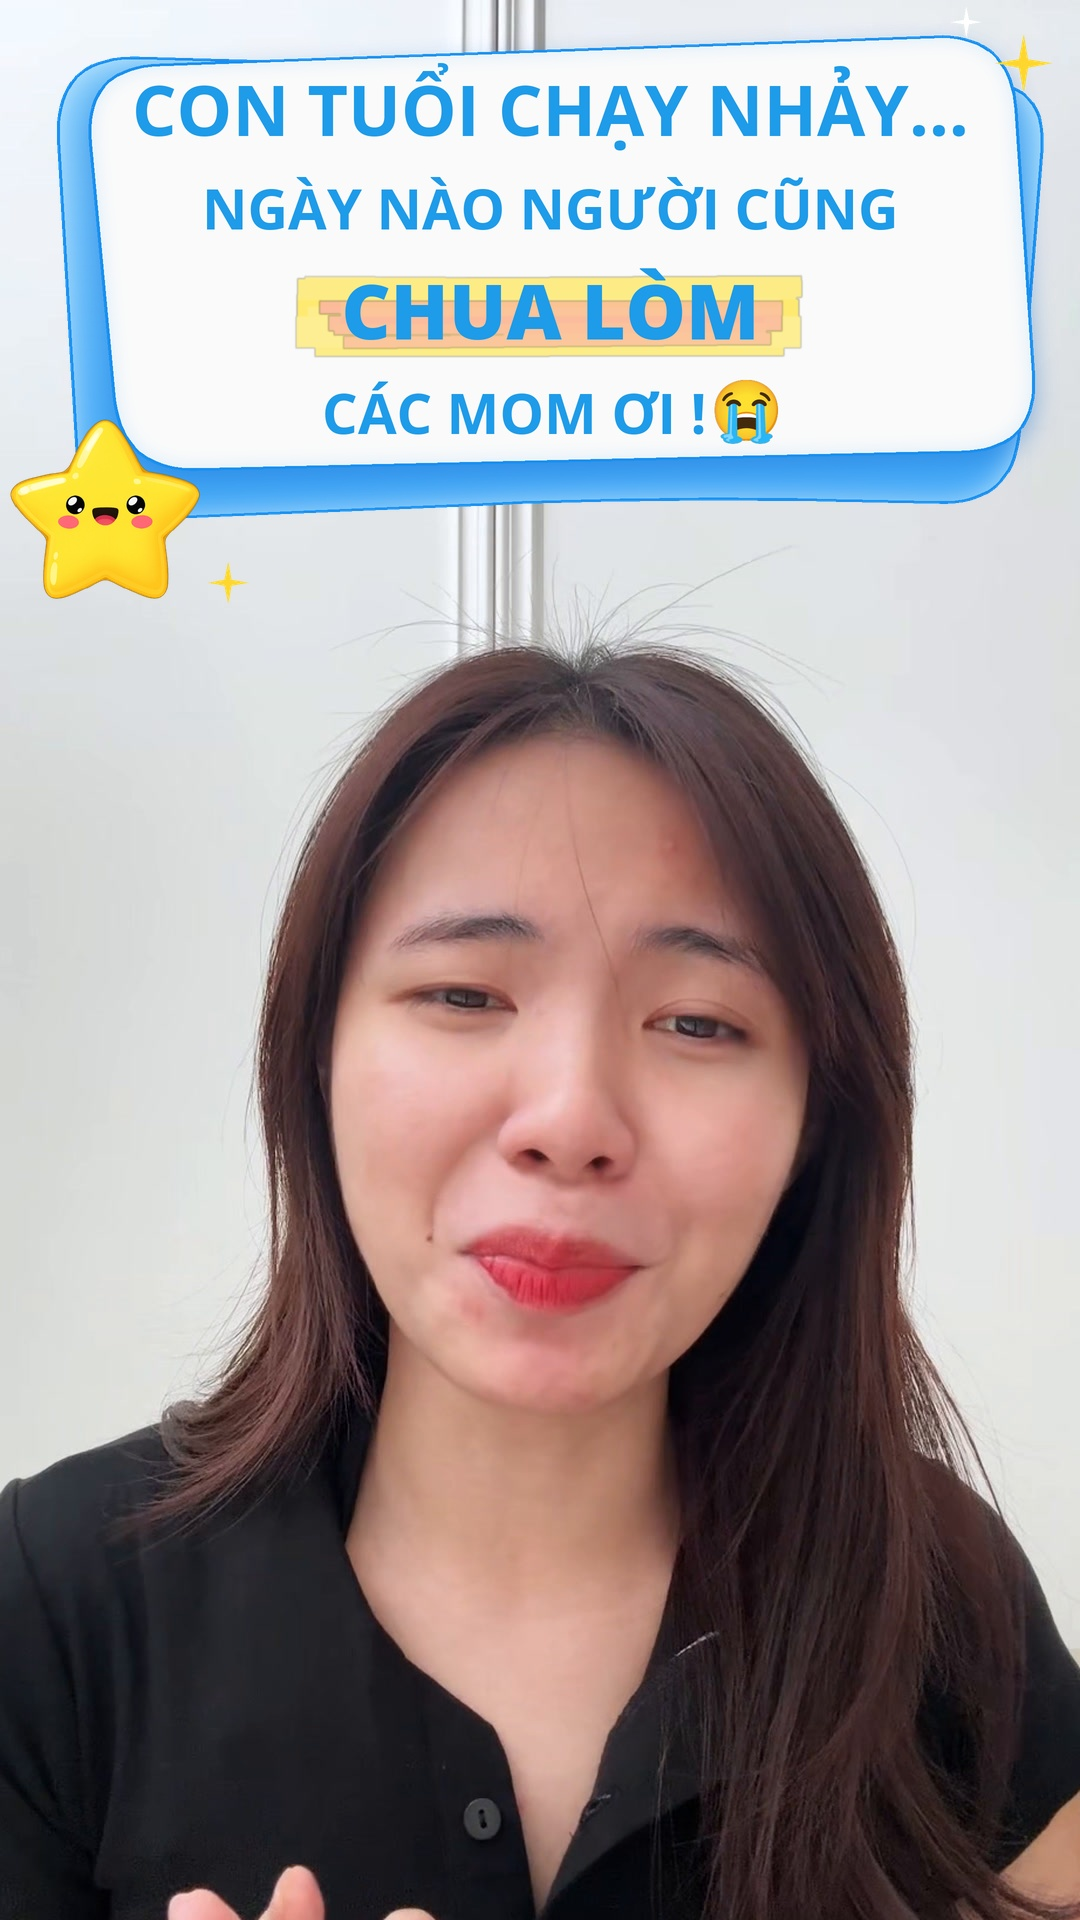
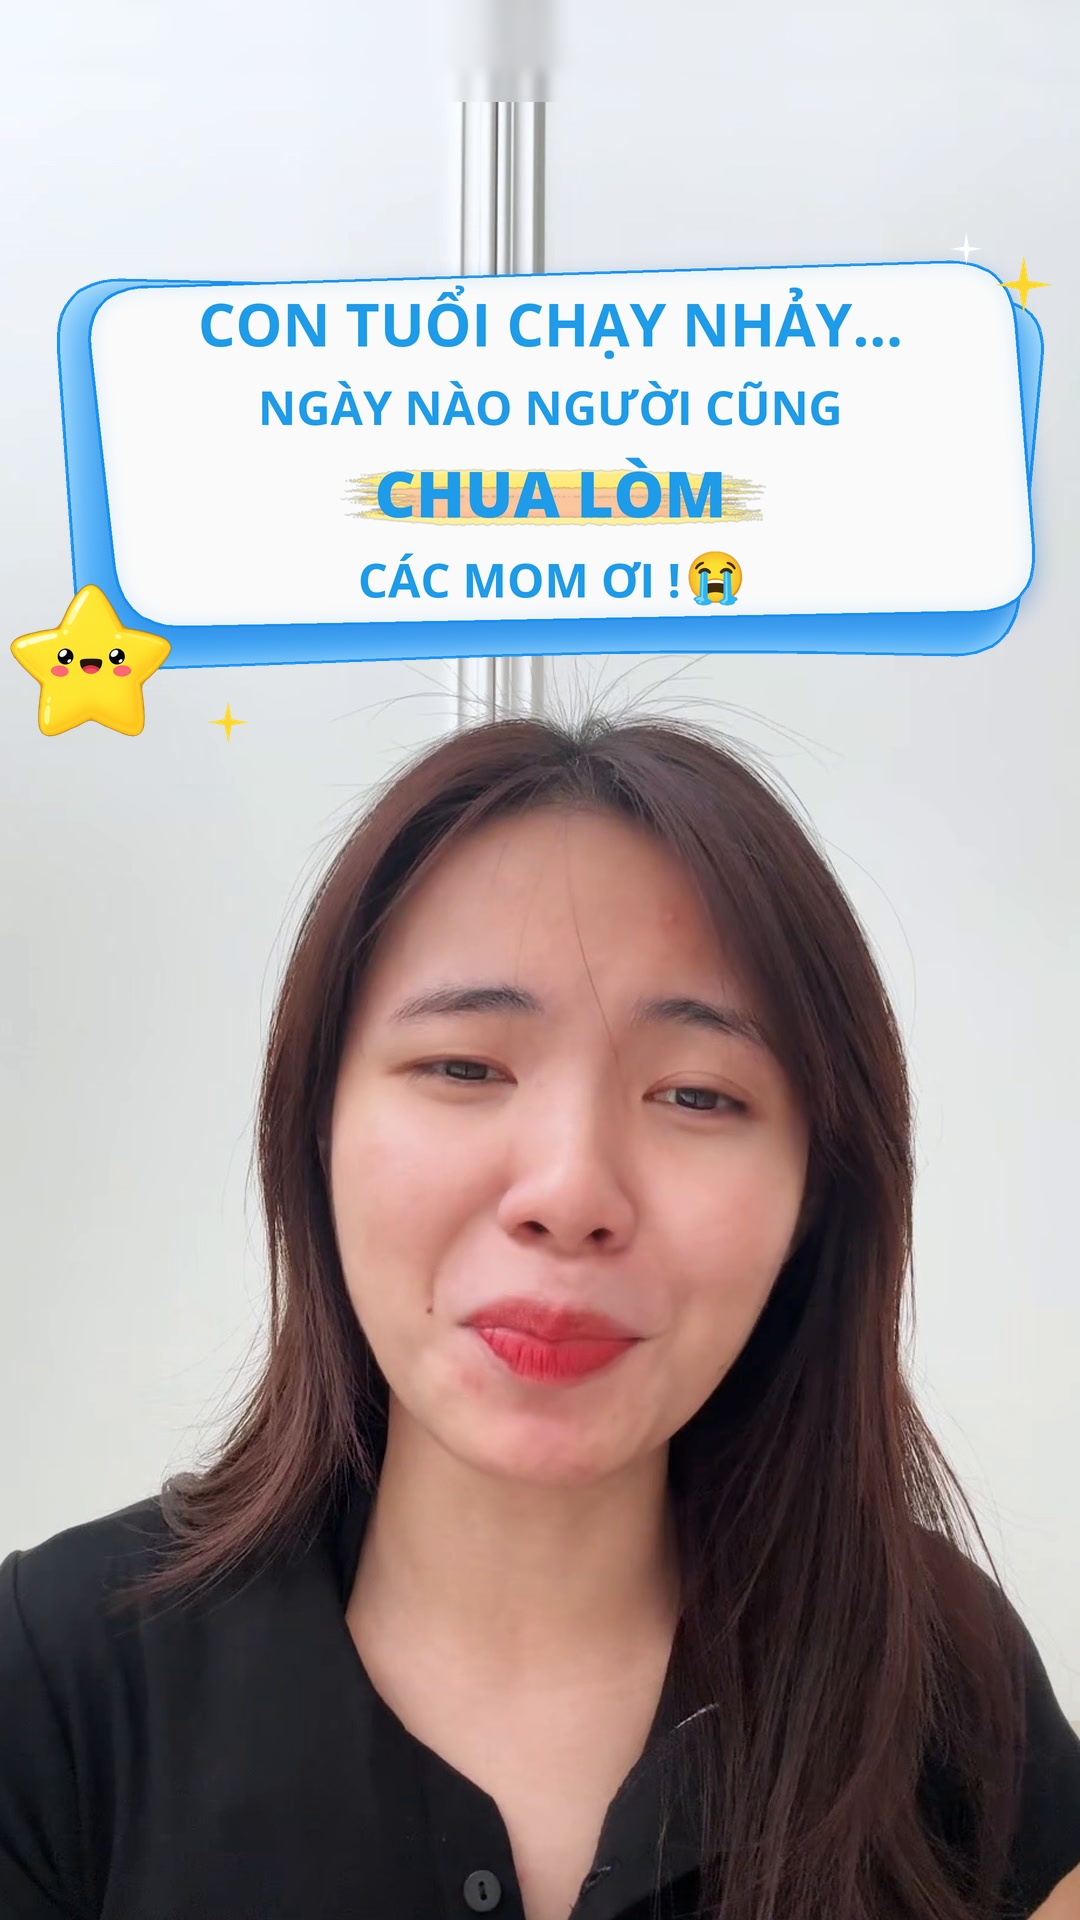
Keep the title card inside TikTok's 3:4 cover crop
TikTok shows profile covers as a 3:4 crop that hides ~240px at the top
and bottom. Place the card's blue layer at y=285 by default and never
above y=270; when that would cover the head, shrink text to 84% and push
the photo down, filling the gap with the stretched top strip of the
photo. Re-render all covers and add a 3:4 preview sheet.

Claude-Session: https://claude.ai/code/session_01Ug3WuR9fbtqxhsVyfjB7mN

diff --git a/.claude/skills/tao-anh-bia/scripts/tao_anh_bia.py b/.claude/skills/tao-anh-bia/scripts/tao_anh_bia.py
@@ -669,9 +669,18 @@ def nen_9_16(path, day_xuong=0):
     top = (im.height - H) // 2
     im = im.crop((left, top, left + W, top + H))
     if day_xuong > 0:
-        # đẩy ảnh xuống, phần trống phía trên lấp bằng chính ảnh làm mờ
-        mo = im.resize((W, H)).filter(ImageFilter.GaussianBlur(30))
-        mo.paste(im, (0, day_xuong))
+        # đẩy ảnh xuống; phần trống phía trên lấp bằng dải trên cùng của ảnh
+        # (thường là tường/trần trơn) kéo giãn và làm mờ nhẹ
+        dai = im.crop((0, 0, W, max(40, H // 24))).resize((W, day_xuong + 40), Image.BICUBIC)
+        dai = dai.filter(ImageFilter.GaussianBlur(12))
+        mo = im.copy()
+        mo.paste(im.crop((0, 0, W, H - day_xuong)), (0, day_xuong))
+        mo.paste(dai.crop((0, 0, W, day_xuong)), (0, 0))
+        # hoà mép nối
+        noi = 30
+        if day_xuong > noi:
+            vung = mo.crop((0, day_xuong - noi, W, day_xuong + noi))
+            mo.paste(vung.filter(ImageFilter.GaussianBlur(6)), (0, day_xuong - noi))
         im = mo
     return im
 
@@ -701,7 +710,7 @@ def xep_khung_tranh_dau(hook, y_top, dinh_dau, le=6):
         return y_top, 1.0, 0
     gioi_han = dinh_dau - le
     dong = phan_tich_hook(hook)
-    y_min = 24
+    y_min = VUNG_AN_TOAN_TREN
     for i in range(5):
         k = 1.0 - 0.04 * i
         _, _, ch = kich_thuoc_khung(dong, k)
@@ -743,7 +752,13 @@ def tim_dinh_dau(anh):
     return int(y - 0.3 * h), int(x - 0.1 * w), int(x + 1.1 * w)
 
 
-def tao_lop_phu(hook, sao="trai", diem_nhan="tu-dong", y_top=45, ty_le=1.0):
+# TikTok hiển thị ảnh bìa trên trang cá nhân dạng 3:4 (cắt ~240px trên và dưới),
+# nên khung phải nằm trong vùng này để luôn thấy trọn vẹn.
+VUNG_AN_TOAN_TREN = 270
+Y_MAC_DINH = 285
+
+
+def tao_lop_phu(hook, sao="trai", diem_nhan="tu-dong", y_top=Y_MAC_DINH, ty_le=1.0):
     dong = phan_tich_hook(hook)
     if not dong:
         raise SystemExit("Hook trống.")
@@ -863,7 +878,7 @@ def main():
     ap.add_argument("--sao", choices=["trai", "phai", "an"], default="trai", help="vị trí ngôi sao")
     ap.add_argument("--diem-nhan", default="tu-dong",
                     help="tu-dong | khong | kết hợp: tia-vang,tia-hong (hai bên dòng), tia-vang-goc,tia-hong-goc (góc phải), lap-lanh,bong-bong,tim")
-    ap.add_argument("--y", type=int, default=45, help="khoảng cách từ mép trên ảnh tới tấm nền xanh của khung (px)")
+    ap.add_argument("--y", type=int, default=Y_MAC_DINH, help="mép trên tấm nền xanh của khung (px); mặc định nằm trong vùng ảnh bìa 3:4 TikTok luôn hiển thị")
     ap.add_argument("--khung-trong-suot", action="store_true",
                     help="xuất thêm PNG nền trong suốt để chèn lên video (CapCut/ffmpeg)")
     ap.add_argument("--dau", type=int,
